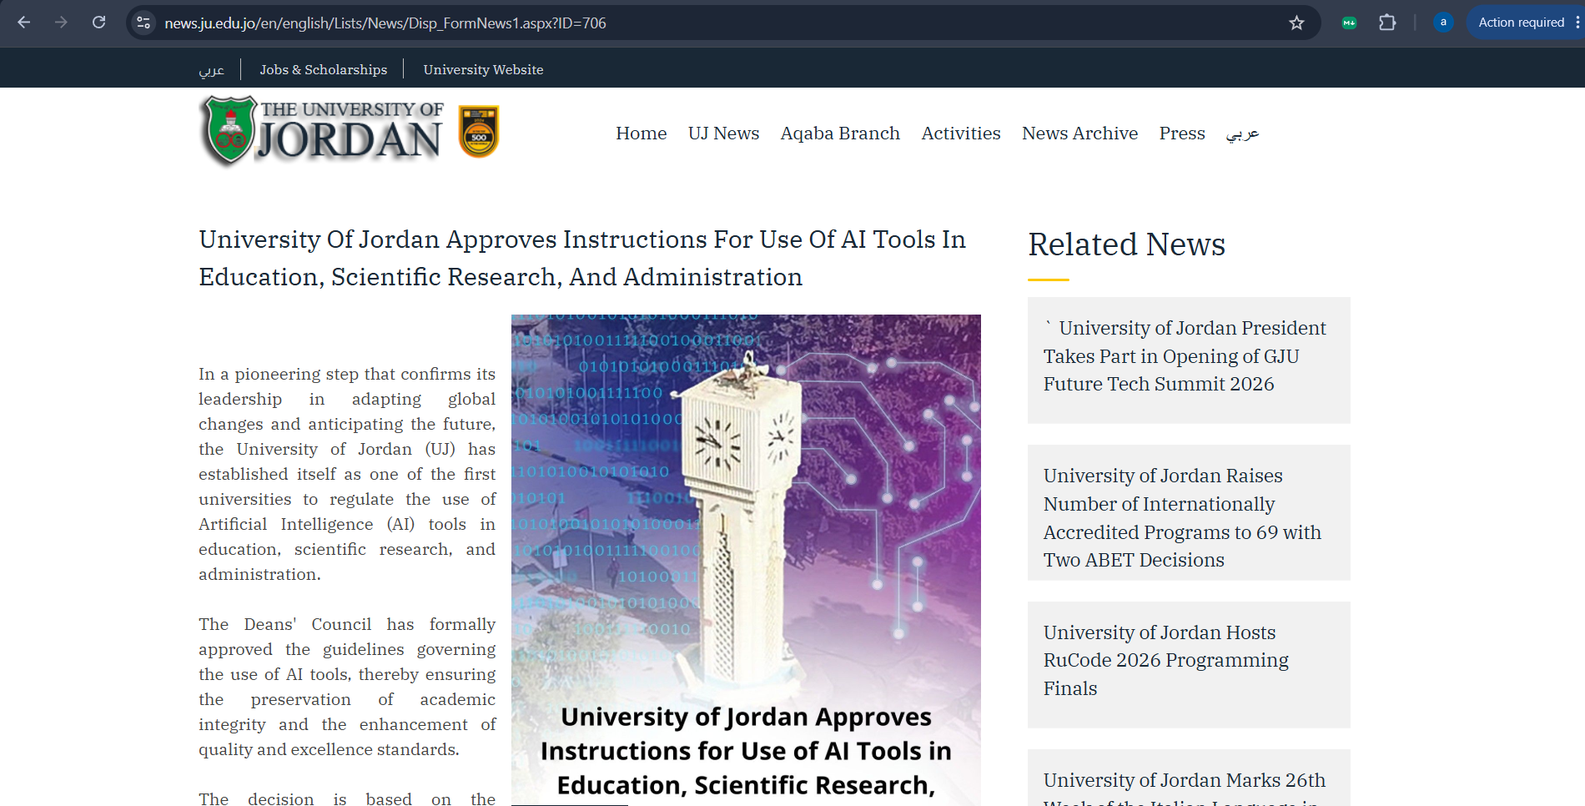
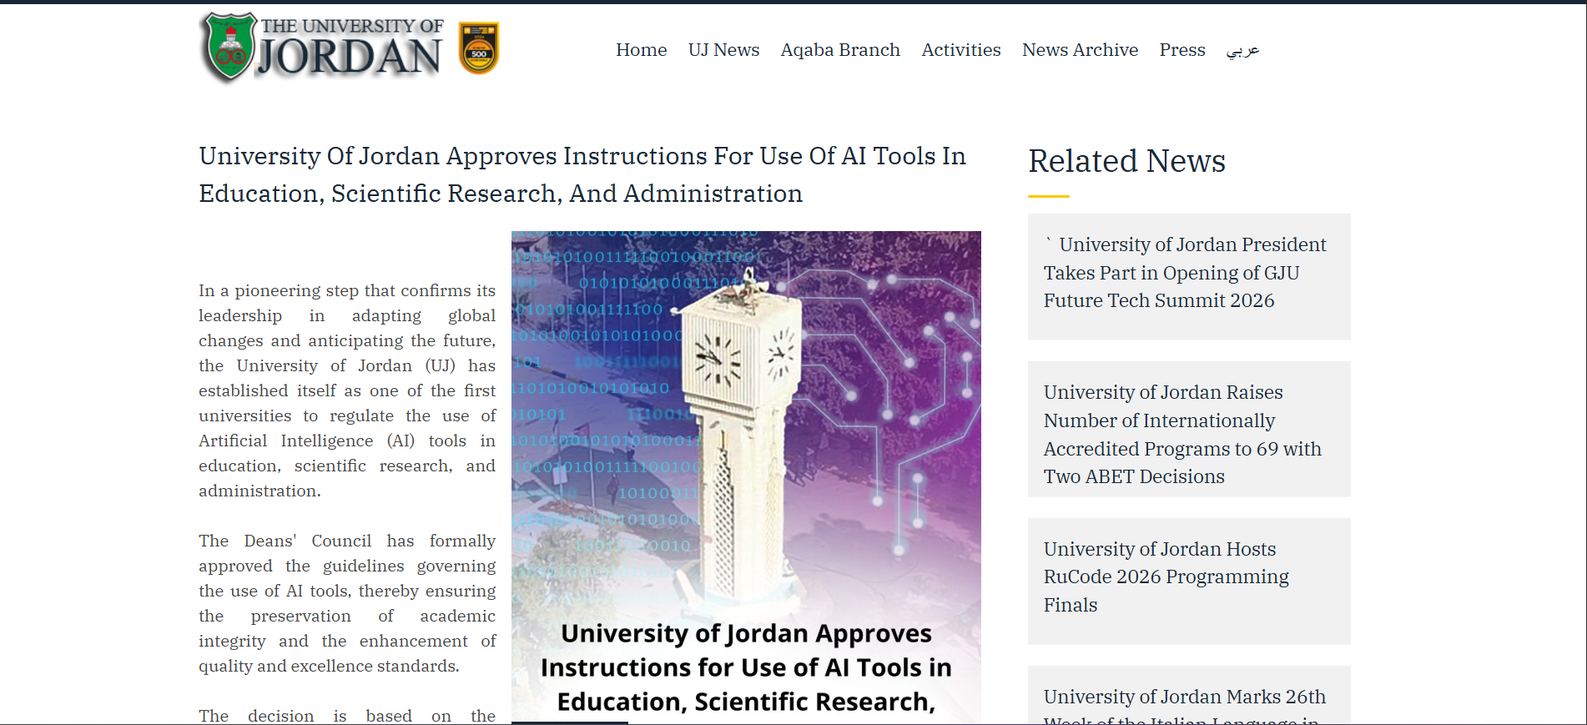
Match admission thresholds and update AI news image

diff --git a/src/app/globals.css b/src/app/globals.css
@@ -301,12 +301,12 @@ a:hover .arrow-icon,button:hover .arrow-icon{transform:translateX(-4px)}
 .suite-add{display:inline-flex;align-items:center;gap:8px;margin-top:14px;padding:8px 0;border:0;background:transparent;color:var(--navy);font-size:13px;font-weight:700}.suite-add svg{width:18px;color:var(--gold)}.suite-actions{display:flex;align-items:center;gap:18px;margin-top:26px}.suite-actions .button{border-radius:999px}.suite-error{padding:10px 13px;margin:18px 0 0;border:1px solid #e8bcbc;border-radius:10px;background:#fff3f3;color:#8f3030;font-size:12px}.suite-results{display:grid;grid-template-columns:repeat(4,minmax(0,1fr));gap:1px;margin-top:26px;padding:1px;border-radius:18px;background:rgba(255,255,255,.12);overflow:hidden;box-shadow:0 15px 36px rgba(6,27,51,.15)}.suite-results>div{min-height:105px;padding:20px;background:var(--navy);display:flex;flex-direction:column;justify-content:center}.suite-results span{font-size:11px;color:#aebdca}.suite-results strong{font:700 30px/1.35 Manrope,sans-serif;color:#fff}.suite-results .result-label{font-family:inherit;font-size:19px;color:var(--gold-light)}.suite-note{font-size:12px;line-height:1.8;color:var(--muted);margin:20px 0 0}
 .admission-score-card{padding:26px;border-radius:20px;background:linear-gradient(135deg,var(--navy-dark),var(--navy-light));color:#fff;box-shadow:0 18px 38px rgba(6,27,51,.18)}.admission-score-top{display:flex;align-items:center;justify-content:space-between;gap:28px;margin-bottom:20px}.admission-score-top>div:first-child>span{display:block;color:#aebdca;font-size:12px}.admission-score-top strong{display:block;font:700 clamp(54px,7vw,78px)/1 Manrope,sans-serif;letter-spacing:-.06em}.admission-score-top strong small{font-size:.45em;color:#9cabb8}.admission-summary{display:flex;flex-direction:column;gap:5px;min-width:145px}.admission-summary span{font-size:12px;color:#bdc9d4}.admission-summary i{display:inline-block;width:8px;height:8px;margin-left:7px;border-radius:50%;background:#7d8994}.admission-summary .accepted i{background:#2cbf8b}.admission-summary .edge i{background:var(--gold)}.admission-summary .rejected i{background:#c26a6a}
 .admission-range{--range-progress:60%;width:100%;height:6px;margin:8px 0;appearance:none;border-radius:999px;background:linear-gradient(to left,var(--gold) 0 var(--range-progress),rgba(255,255,255,.22) var(--range-progress) 100%);outline:0}.admission-range::-webkit-slider-thumb{appearance:none;width:22px;height:22px;border:5px solid var(--gold);border-radius:50%;background:#fff;box-shadow:0 5px 14px rgba(0,0,0,.28);cursor:grab}.admission-range::-moz-range-thumb{width:13px;height:13px;border:5px solid var(--gold);border-radius:50%;background:#fff;box-shadow:0 5px 14px rgba(0,0,0,.28);cursor:grab}.range-labels{display:flex;justify-content:space-between;direction:rtl;color:#8292a1;font:600 10px/1 Manrope,sans-serif}
-.admission-search{display:block;position:relative;margin:20px 0 12px}.admission-search input{padding-left:45px;background:#fff}.admission-search b{position:absolute;left:17px;top:50%;transform:translateY(-50%);color:var(--gold);font:400 25px/1 Arial}.admission-list{max-height:570px;overflow:auto;display:grid;gap:9px;padding:3px 3px 3px 9px;scrollbar-color:var(--gold) var(--tint);scrollbar-width:thin}.admission-program{display:flex;align-items:center;justify-content:space-between;gap:18px;min-height:76px;padding:14px 18px;border:1px solid var(--border);border-radius:15px;background:#fff}.admission-program h3{color:var(--navy);font-size:15px;line-height:1.5;margin:0}.admission-program p{color:var(--muted);font-size:11px;margin:2px 0 0}.admission-program>span{min-width:max-content;padding:5px 11px;border-radius:999px;font-size:11px;font-weight:800}.admission-program.accepted{border-color:rgba(44,191,139,.27);background:#f5fcf9}.admission-program.accepted>span{color:#087451;background:#dff6ed}.admission-program.edge{border-color:rgba(198,161,91,.48);background:#fffaf0}.admission-program.edge>span{color:#765814;background:#f5e7bd}.admission-program.rejected{opacity:.72}.admission-program.rejected>span{color:#8e4545;background:#f9e8e8}.admission-empty{text-align:center;color:var(--muted);padding:35px}.admission-note{border-top:1px solid var(--border);padding-top:17px}
+.admission-search{display:block;position:relative;margin:20px 0 12px}.admission-search input{padding-right:45px;background:#fff}.admission-search b{position:absolute;right:15px;top:50%;transform:translateY(-50%);color:var(--gold);font:400 16px/1 Arial}.admission-list{max-height:400px;overflow:auto;display:grid;gap:8px;padding:3px 3px 3px 9px;scrollbar-color:var(--gold) var(--tint);scrollbar-width:thin}.admission-program{display:flex;align-items:center;justify-content:space-between;gap:18px;min-height:66px;padding:12px 16px;border:1px solid var(--border);border-radius:13px;background:#fff}.admission-program h3{color:var(--navy);font-size:15px;line-height:1.5;margin:0}.admission-program p{color:var(--muted);font-size:11px;margin:2px 0 0}.admission-program>span{min-width:max-content;padding:5px 11px;border-radius:999px;font-size:11px;font-weight:800}.admission-program.accepted{border-color:rgba(44,191,139,.27);background:#f5fcf9}.admission-program.accepted>span{color:#087451;background:#dff6ed}.admission-program.edge{border-color:rgba(198,161,91,.48);background:#fffaf0}.admission-program.edge>span{color:#765814;background:#f5e7bd}.admission-program.rejected{opacity:.55}.admission-program.rejected>span{color:#8e4545;background:#f9e8e8}.admission-empty{text-align:center;color:var(--muted);padding:35px}.admission-note{border-top:1px solid var(--border);padding-top:17px}
 @media(max-width:800px){.calculator-page-section{padding-block:48px 70px}.suite-results{grid-template-columns:repeat(2,minmax(0,1fr))}.suite-course-fields{grid-template-columns:1fr 1fr}.calculator-tabs{display:flex;overflow-x:auto;scroll-snap-type:x mandatory}.calculator-tabs button{min-width:230px;scroll-snap-align:start}.calculator-tabs button span{font-size:13px}}
 @media(max-width:560px){.calculator-page-section{padding-block:36px 54px}.suite-heading{margin-bottom:22px}.suite-heading h1{font-size:35px}.suite-heading p{font-size:13px}.calculator-tabs{display:grid;grid-template-columns:repeat(3,minmax(0,1fr));width:100%;overflow:visible;border-radius:18px}.calculator-tabs button{min-width:0;min-height:54px;padding:8px 5px}.calculator-tabs button span{display:none}.calculator-tabs button small{display:block}.suite-panel{padding:20px 16px;border-radius:21px}.suite-panel-heading{gap:12px;margin-bottom:21px;padding-bottom:19px}.suite-panel-heading h2{font-size:24px}.suite-panel-heading p{font-size:12px}.suite-step{width:38px;height:38px;border-radius:12px}.suite-fields-two,.suite-course-fields{grid-template-columns:1fr}.suite-course-card{padding:15px}.suite-course-head{align-items:flex-start}.suite-course-head>div{flex-wrap:wrap;justify-content:flex-end}.suite-actions{align-items:stretch;flex-direction:column}.suite-actions .button{width:100%}.suite-results{grid-template-columns:1fr 1fr}.suite-results>div{min-height:92px;padding:15px}.suite-results strong{font-size:25px}.admission-score-card{padding:20px 16px}.admission-score-top{align-items:flex-start;flex-direction:column;gap:15px}.admission-summary{width:100%;display:grid;grid-template-columns:1fr 1fr;gap:5px 12px}.admission-program{padding:12px 13px}.admission-program h3{font-size:14px}.admission-list{max-height:520px}.admission-note{font-size:11px}}
 /* Specialty material directory */
-.ai-news-feature{padding-block:54px 72px;background:linear-gradient(180deg,#eef2f5,#f7f9fa)}.ai-news-card{margin:0;border:1px solid rgba(6,27,51,.12);border-radius:24px;background:#fff;overflow:hidden;box-shadow:0 24px 58px rgba(6,27,51,.12)}.ai-news-image{position:relative;aspect-ratio:1900/966;background:var(--navy);overflow:hidden}.ai-news-image img{width:100%;height:100%;object-fit:cover}.ai-news-card figcaption{display:flex;align-items:center;justify-content:space-between;gap:38px;padding:28px 32px 31px}.ai-news-card figcaption>div{max-width:820px}.ai-news-card h1{font-size:clamp(28px,3vw,43px);line-height:1.45;letter-spacing:-.045em;color:var(--navy);margin:12px 0 5px}.ai-news-card p{color:var(--muted);font-size:13px;line-height:1.8;margin:0}.ai-news-card .button{min-width:190px;border-radius:999px}
-@media(max-width:700px){.ai-news-feature{padding-block:30px 48px}.ai-news-card{border-radius:18px}.ai-news-image{aspect-ratio:1.35}.ai-news-image img{object-fit:cover;object-position:center top}.ai-news-card figcaption{align-items:stretch;flex-direction:column;gap:19px;padding:22px 18px 20px}.ai-news-card h1{font-size:27px}.ai-news-card .button{width:100%}}
+.ai-news-feature{padding-block:54px 72px;background:linear-gradient(180deg,#eef2f5,#f7f9fa)}.ai-news-card{margin:0;border:1px solid rgba(6,27,51,.12);border-radius:24px;background:#fff;overflow:hidden;box-shadow:0 24px 58px rgba(6,27,51,.12)}.ai-news-card-header{padding:27px 32px 23px}.ai-news-card-header p{color:var(--muted);font-size:13px;line-height:1.8;margin:10px 0 0}.ai-news-image{position:relative;aspect-ratio:1902/869;background:var(--navy);overflow:hidden}.ai-news-image img{width:100%;height:100%;object-fit:cover}.ai-news-card figcaption{display:flex;align-items:center;justify-content:space-between;gap:38px;padding:27px 32px 31px}.ai-news-card h1{max-width:820px;font-size:clamp(28px,3vw,43px);line-height:1.45;letter-spacing:-.045em;color:var(--navy);margin:0}.ai-news-card .button{min-width:190px;border-radius:999px}
+@media(max-width:700px){.ai-news-feature{padding-block:30px 48px}.ai-news-card{border-radius:18px}.ai-news-card-header{padding:21px 18px 18px}.ai-news-card-header p{font-size:12px}.ai-news-image{aspect-ratio:1.35}.ai-news-image img{object-fit:cover;object-position:center top}.ai-news-card figcaption{align-items:stretch;flex-direction:column;gap:19px;padding:22px 18px 20px}.ai-news-card h1{font-size:27px}.ai-news-card .button{width:100%}}
 
 .specialty-materials-section{padding-block:72px 88px;background:linear-gradient(180deg,#f4f6f8,#eef2f5);min-height:720px}
 .specialty-directory-heading{max-width:820px;margin:0 0 38px auto}.specialty-directory-heading h1{font-size:clamp(38px,4vw,58px);line-height:1.35;letter-spacing:-.055em;color:var(--navy);margin:14px 0 8px}.specialty-directory-heading p{max-width:680px;color:var(--muted);font-size:15px;line-height:1.9;margin:0}

diff --git a/src/lib/admissionPrograms.ts b/src/lib/admissionPrograms.ts
@@ -4,33 +4,33 @@ export type AdmissionProgram = {
   minimum: number;
 };
 
-const openAdmission = 50;
+const openAdmission = 65;
 
 export const admissionPrograms: AdmissionProgram[] = [
   { major: 'دكتور في الطب', faculty: 'كلية الطب', minimum: 90 },
   { major: 'دكتور في طب الأسنان', faculty: 'كلية طب الأسنان', minimum: 90 },
-  { major: 'الصيدلة', faculty: 'كلية الصيدلة', minimum: openAdmission },
-  { major: 'دكتور في الصيدلة', faculty: 'كلية الصيدلة', minimum: openAdmission },
-  { major: 'الهندسة المدنية', faculty: 'كلية الهندسة', minimum: openAdmission },
-  { major: 'هندسة العمارة', faculty: 'كلية الهندسة', minimum: openAdmission },
-  { major: 'الهندسة الكهربائية', faculty: 'كلية الهندسة', minimum: openAdmission },
-  { major: 'الهندسة الميكانيكية', faculty: 'كلية الهندسة', minimum: openAdmission },
-  { major: 'هندسة الطيران', faculty: 'كلية الهندسة', minimum: openAdmission },
-  { major: 'الهندسة الكيميائية', faculty: 'كلية الهندسة', minimum: openAdmission },
-  { major: 'الهندسة الصناعية', faculty: 'كلية الهندسة', minimum: openAdmission },
-  { major: 'هندسة الحاسوب', faculty: 'كلية الهندسة', minimum: openAdmission },
-  { major: 'هندسة الميكاترونكس', faculty: 'كلية الهندسة', minimum: openAdmission },
-  { major: 'أصول الدين', faculty: 'كلية الشريعة', minimum: openAdmission },
-  { major: 'الفقه وأصوله', faculty: 'كلية الشريعة', minimum: openAdmission },
-  { major: 'المصارف الإسلامية', faculty: 'كلية الشريعة', minimum: openAdmission },
-  { major: 'التمريض', faculty: 'كلية التمريض', minimum: openAdmission },
-  { major: 'العلاج الطبيعي', faculty: 'كلية علوم التأهيل', minimum: openAdmission },
-  { major: 'العلاج الوظيفي', faculty: 'كلية علوم التأهيل', minimum: openAdmission },
-  { major: 'الأطراف الاصطناعية والأجهزة المساعدة', faculty: 'كلية علوم التأهيل', minimum: openAdmission },
-  { major: 'علوم السمع والنطق', faculty: 'كلية علوم التأهيل', minimum: openAdmission },
-  { major: 'العلوم الطبية المخبرية', faculty: 'كلية العلوم', minimum: openAdmission },
-  { major: 'علم وتكنولوجيا الغذاء', faculty: 'كلية الزراعة', minimum: openAdmission },
-  { major: 'تغذية الإنسان والحميات', faculty: 'كلية الزراعة', minimum: openAdmission },
+  { major: 'الصيدلة', faculty: 'كلية الصيدلة', minimum: 80 },
+  { major: 'دكتور في الصيدلة', faculty: 'كلية الصيدلة', minimum: 80 },
+  { major: 'الهندسة المدنية', faculty: 'كلية الهندسة', minimum: 80 },
+  { major: 'هندسة العمارة', faculty: 'كلية الهندسة', minimum: 80 },
+  { major: 'الهندسة الكهربائية', faculty: 'كلية الهندسة', minimum: 80 },
+  { major: 'الهندسة الميكانيكية', faculty: 'كلية الهندسة', minimum: 80 },
+  { major: 'هندسة الطيران', faculty: 'كلية الهندسة', minimum: 80 },
+  { major: 'الهندسة الكيميائية', faculty: 'كلية الهندسة', minimum: 80 },
+  { major: 'الهندسة الصناعية', faculty: 'كلية الهندسة', minimum: 80 },
+  { major: 'هندسة الحاسوب', faculty: 'كلية الهندسة', minimum: 80 },
+  { major: 'هندسة الميكاترونكس', faculty: 'كلية الهندسة', minimum: 80 },
+  { major: 'أصول الدين', faculty: 'كلية الشريعة', minimum: 75 },
+  { major: 'الفقه وأصوله', faculty: 'كلية الشريعة', minimum: 75 },
+  { major: 'المصارف الإسلامية', faculty: 'كلية الشريعة', minimum: 75 },
+  { major: 'التمريض', faculty: 'كلية التمريض', minimum: 70 },
+  { major: 'العلاج الطبيعي', faculty: 'كلية علوم التأهيل', minimum: 70 },
+  { major: 'العلاج الوظيفي', faculty: 'كلية علوم التأهيل', minimum: 70 },
+  { major: 'الأطراف الاصطناعية والأجهزة المساعدة', faculty: 'كلية علوم التأهيل', minimum: 70 },
+  { major: 'علوم السمع والنطق', faculty: 'كلية علوم التأهيل', minimum: 70 },
+  { major: 'العلوم الطبية المخبرية', faculty: 'كلية العلوم', minimum: 70 },
+  { major: 'علم وتكنولوجيا الغذاء', faculty: 'كلية الزراعة', minimum: 70 },
+  { major: 'تغذية الإنسان والحميات', faculty: 'كلية الزراعة', minimum: 70 },
   { major: 'علم الحاسوب', faculty: 'كلية الملك عبدالله للتكنولوجيا', minimum: openAdmission },
   { major: 'أنظمة المعلومات الحاسوبية', faculty: 'كلية الملك عبدالله للتكنولوجيا', minimum: openAdmission },
   { major: 'تكنولوجيا معلومات الأعمال', faculty: 'كلية الملك عبدالله للتكنولوجيا', minimum: openAdmission },

diff --git a/src/components/GpaCalculator.tsx b/src/components/GpaCalculator.tsx
@@ -117,17 +117,17 @@ function AdmissionCalculator() {
   const [score, setScore] = useState(80);
   const [search, setSearch] = useState('');
   const filteredPrograms = useMemo(() => { const term = search.trim(); return term ? admissionPrograms.filter(program => `${program.major} ${program.faculty}`.includes(term)) : admissionPrograms; }, [search]);
-  const summary = useMemo(() => admissionPrograms.reduce((totals, program) => { if (score > program.minimum) totals.accepted += 1; else if (score === program.minimum) totals.edge += 1; else totals.rejected += 1; return totals; }, { accepted: 0, edge: 0, rejected: 0 }), [score]);
+  const summary = useMemo(() => admissionPrograms.reduce((totals, program) => { if (score >= program.minimum) totals.accepted += 1; else if (score >= program.minimum - 3) totals.edge += 1; else totals.rejected += 1; return totals; }, { accepted: 0, edge: 0, rejected: 0 }), [score]);
 
   return <div className="suite-panel admission-calculator">
     <div className="suite-panel-heading"><span className="suite-step">03</span><div><h2>حاسبة القبول</h2><p>حرّك المؤشر لمعرفة التخصصات المتاحة لك مبدئيًا بناءً على معدل التوجيهي.</p></div></div>
     <div className="admission-score-card">
-      <div className="admission-score-top"><div><span>معدل التوجيهي</span><strong>{score}<small>%</small></strong></div><div className="admission-summary" aria-live="polite"><span className="accepted"><i />مقبول: {summary.accepted}</span><span className="edge"><i />على الحد: {summary.edge}</span><span className="rejected"><i />غير مقبول: {summary.rejected}</span></div></div>
+      <div className="admission-score-top"><div><span>معدل التوجيهي</span><strong>{score}<small>%</small></strong></div><div className="admission-summary" aria-live="polite"><span className="accepted"><i />مقبول: {summary.accepted} تخصص</span><span className="edge"><i />على الحد: {summary.edge}</span><span className="rejected"><i />غير مقبول: {summary.rejected}</span></div></div>
       <input className="admission-range" aria-label="معدل التوجيهي" type="range" min="50" max="100" step="1" value={score} onChange={event => setScore(Number(event.target.value))} style={{ '--range-progress': `${(score - 50) * 2}%` } as React.CSSProperties} />
       <div className="range-labels"><span>50%</span><span>100%</span></div>
     </div>
-    <label className="admission-search"><span className="sr-only">ابحث عن تخصص أو كلية</span><input type="search" placeholder="ابحث عن تخصص أو كلية…" value={search} onChange={event => setSearch(event.target.value)} /><b aria-hidden="true">⌕</b></label>
-    <div className="admission-list" aria-label="نتائج التخصصات">{filteredPrograms.map(program => { const status = score > program.minimum ? 'accepted' : score === program.minimum ? 'edge' : 'rejected'; return <article className={`admission-program ${status}`} key={`${program.faculty}-${program.major}`}><div><h3>{program.major}</h3><p>{program.faculty}</p></div><span>{status === 'accepted' ? 'مقبول ✓' : status === 'edge' ? 'على الحد' : `${program.minimum}%`}</span></article>; })}{filteredPrograms.length === 0 && <p className="admission-empty">لا توجد تخصصات مطابقة للبحث.</p>}</div>
+    <label className="admission-search"><span className="sr-only">ابحث عن تخصص أو كلية</span><input type="search" placeholder="ابحث عن تخصص أو كلية…" value={search} onChange={event => setSearch(event.target.value)} /><b aria-hidden="true">🔍</b></label>
+    <div className="admission-list" aria-label="نتائج التخصصات">{filteredPrograms.map(program => { const status = score >= program.minimum ? 'accepted' : score >= program.minimum - 3 ? 'edge' : 'rejected'; return <article className={`admission-program ${status}`} key={`${program.faculty}-${program.major}`}><div><h3>{program.major}</h3><p>{program.faculty}</p></div><span>{status === 'accepted' ? 'مقبول ✓' : status === 'edge' ? `حدّك ${program.minimum}%` : `${program.minimum}%`}</span></article>; })}{filteredPrograms.length === 0 && <p className="admission-empty">لا توجد تخصصات مطابقة للبحث.</p>}</div>
     <p className="suite-note admission-note">* الأرقام تقديرية بناءً على معدلات القبول السابقة وقد تتغير سنويًا. راجع وحدة تنسيق القبول الموحد والمصادر الرسمية قبل اتخاذ أي قرار.</p>
   </div>;
 }

diff --git a/src/app/[slug]/page.tsx b/src/app/[slug]/page.tsx
@@ -16,8 +16,9 @@ export default async function InnerPage({ params }: { params: Promise<{ slug: st
   const isMaterials = slug === 'materials';
   return <>
     {slug === 'ai' && <section className="ai-news-feature"><div className="container-wide"><figure className="ai-news-card">
-      <div className="ai-news-image"><Image src="/ai/ju-ai-news.png" alt="خبر الجامعة الأردنية حول تعليمات استخدام أدوات الذكاء الاصطناعي" width={1900} height={966} priority sizes="(max-width: 1400px) calc(100vw - 72px), 1330px" /></div>
-      <figcaption><div><span className="eyebrow"><span className="eyebrow-line" />خبر الجامعة الأردنية</span><h1>تعليمات استخدام أدوات الذكاء الاصطناعي في الجامعة الأردنية</h1><p>اطّلع على الخبر والتفاصيل المنشورة في الموقع الرسمي للجامعة الأردنية.</p></div><a className="button button-navy" href="https://news.ju.edu.jo/en/english/Lists/News/Disp_FormNews1.aspx?ID=706" target="_blank" rel="noreferrer">قراءة الخبر الرسمي</a></figcaption>
+      <header className="ai-news-card-header"><span className="eyebrow"><span className="eyebrow-line" />خبر الجامعة الأردنية</span><p>اطّلع على الخبر والتفاصيل المنشورة في الموقع الرسمي للجامعة الأردنية.</p></header>
+      <div className="ai-news-image"><Image src="/ai/ju-ai-news.png" alt="خبر الجامعة الأردنية حول تعليمات استخدام أدوات الذكاء الاصطناعي" width={1902} height={869} priority sizes="(max-width: 1400px) calc(100vw - 72px), 1330px" /></div>
+      <figcaption><h1>تعليمات استخدام أدوات الذكاء الاصطناعي في الجامعة الأردنية</h1><a className="button button-navy" href="https://news.ju.edu.jo/en/english/Lists/News/Disp_FormNews1.aspx?ID=706" target="_blank" rel="noreferrer">قراءة الخبر الرسمي</a></figcaption>
     </figure></div></section>}
     {!isSpecialty && page.sections?.map((section, i) => <section key={section.title} className={`content-section ${i % 2 ? 'section-tint' : ''} ${isMaterials ? 'materials-discovery-section' : ''}`}><div className="container-wide"><SectionHeader kicker={isMaterials ? undefined : page.eyebrow} title={isMaterials ? 'ماذا ستجد هنا؟' : section.title} />{section.text?.map(p => <p className="section-prose" key={p}>{p}</p>)}{section.cards && <div className={isMaterials ? 'service-grid inner-grid materials-discovery-grid' : 'service-grid inner-grid'}>{section.cards.map((card, n) => <ServiceCard key={card.title} card={card} index={n} showImage={isMaterials} />)}</div>}</div></section>)}
     {isSpecialty && <SpecialtyMaterialsDirectory specialty={slug} />}
